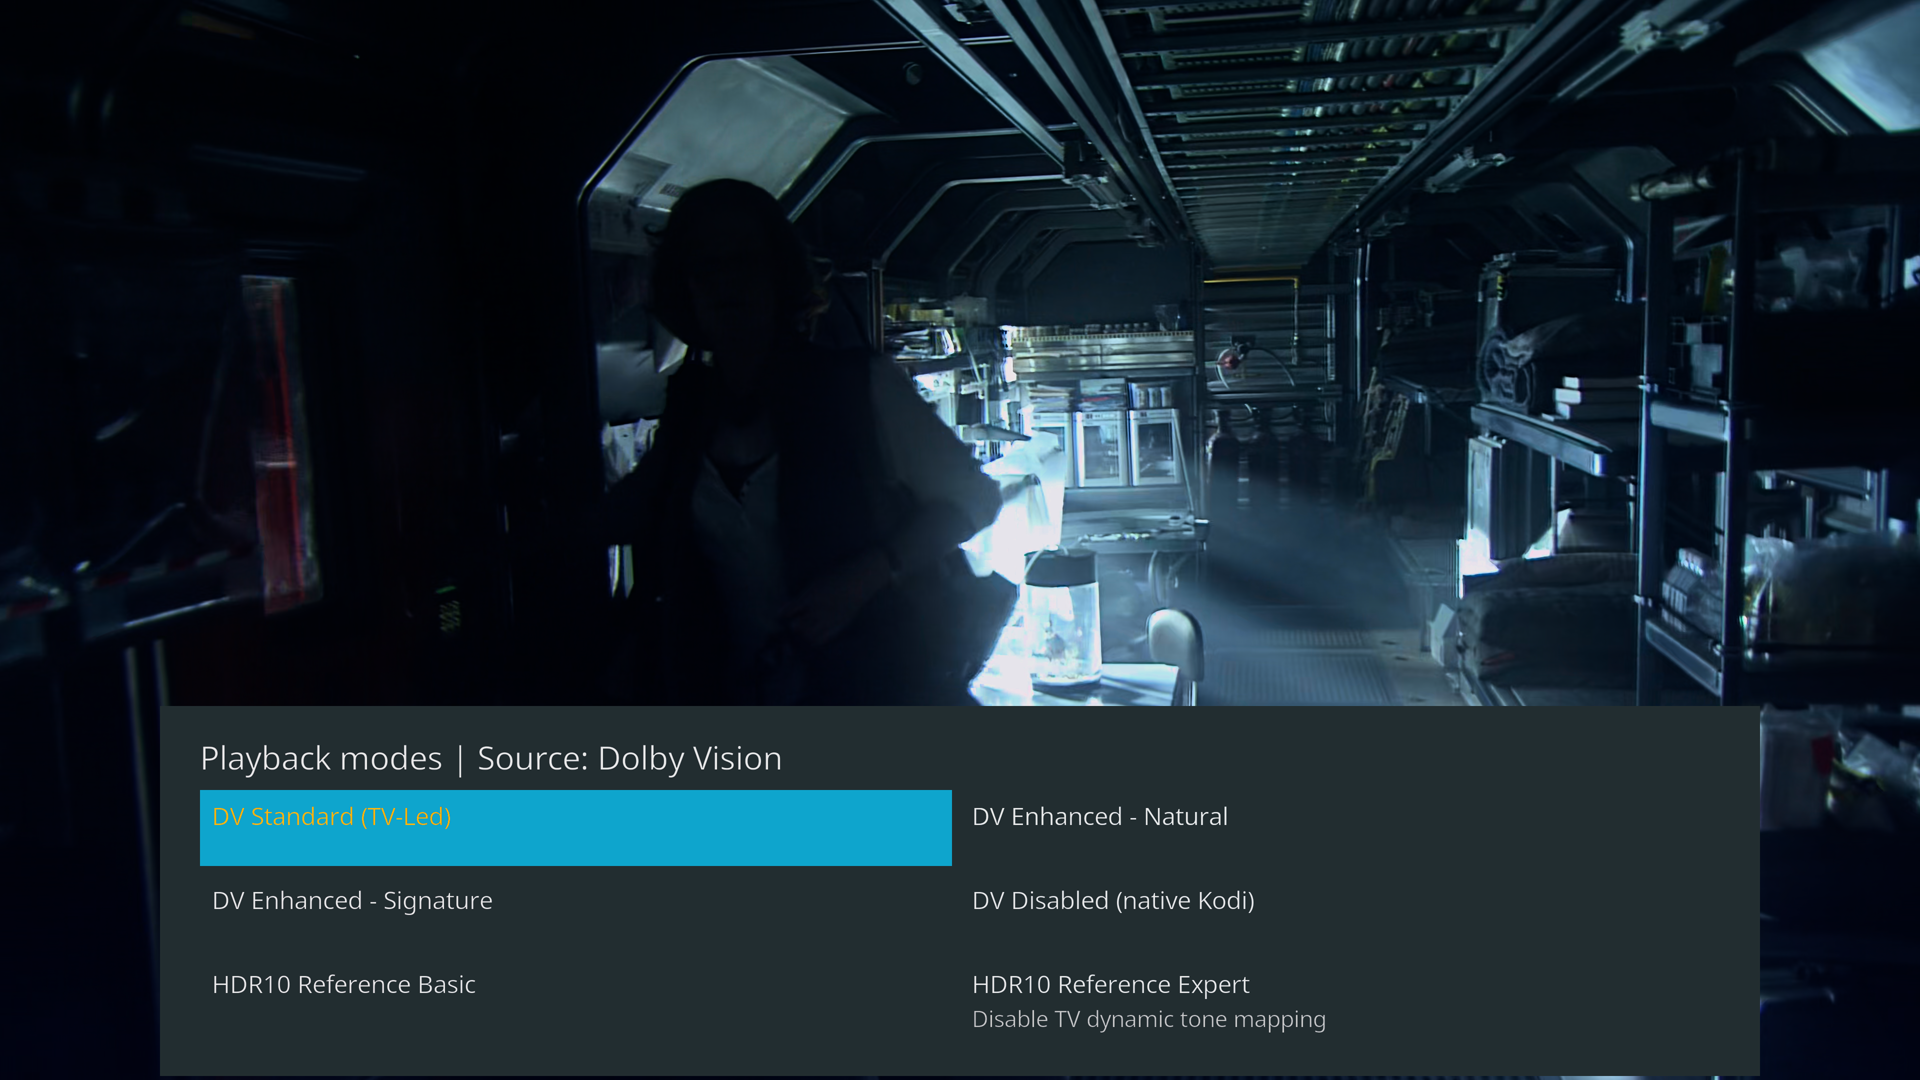
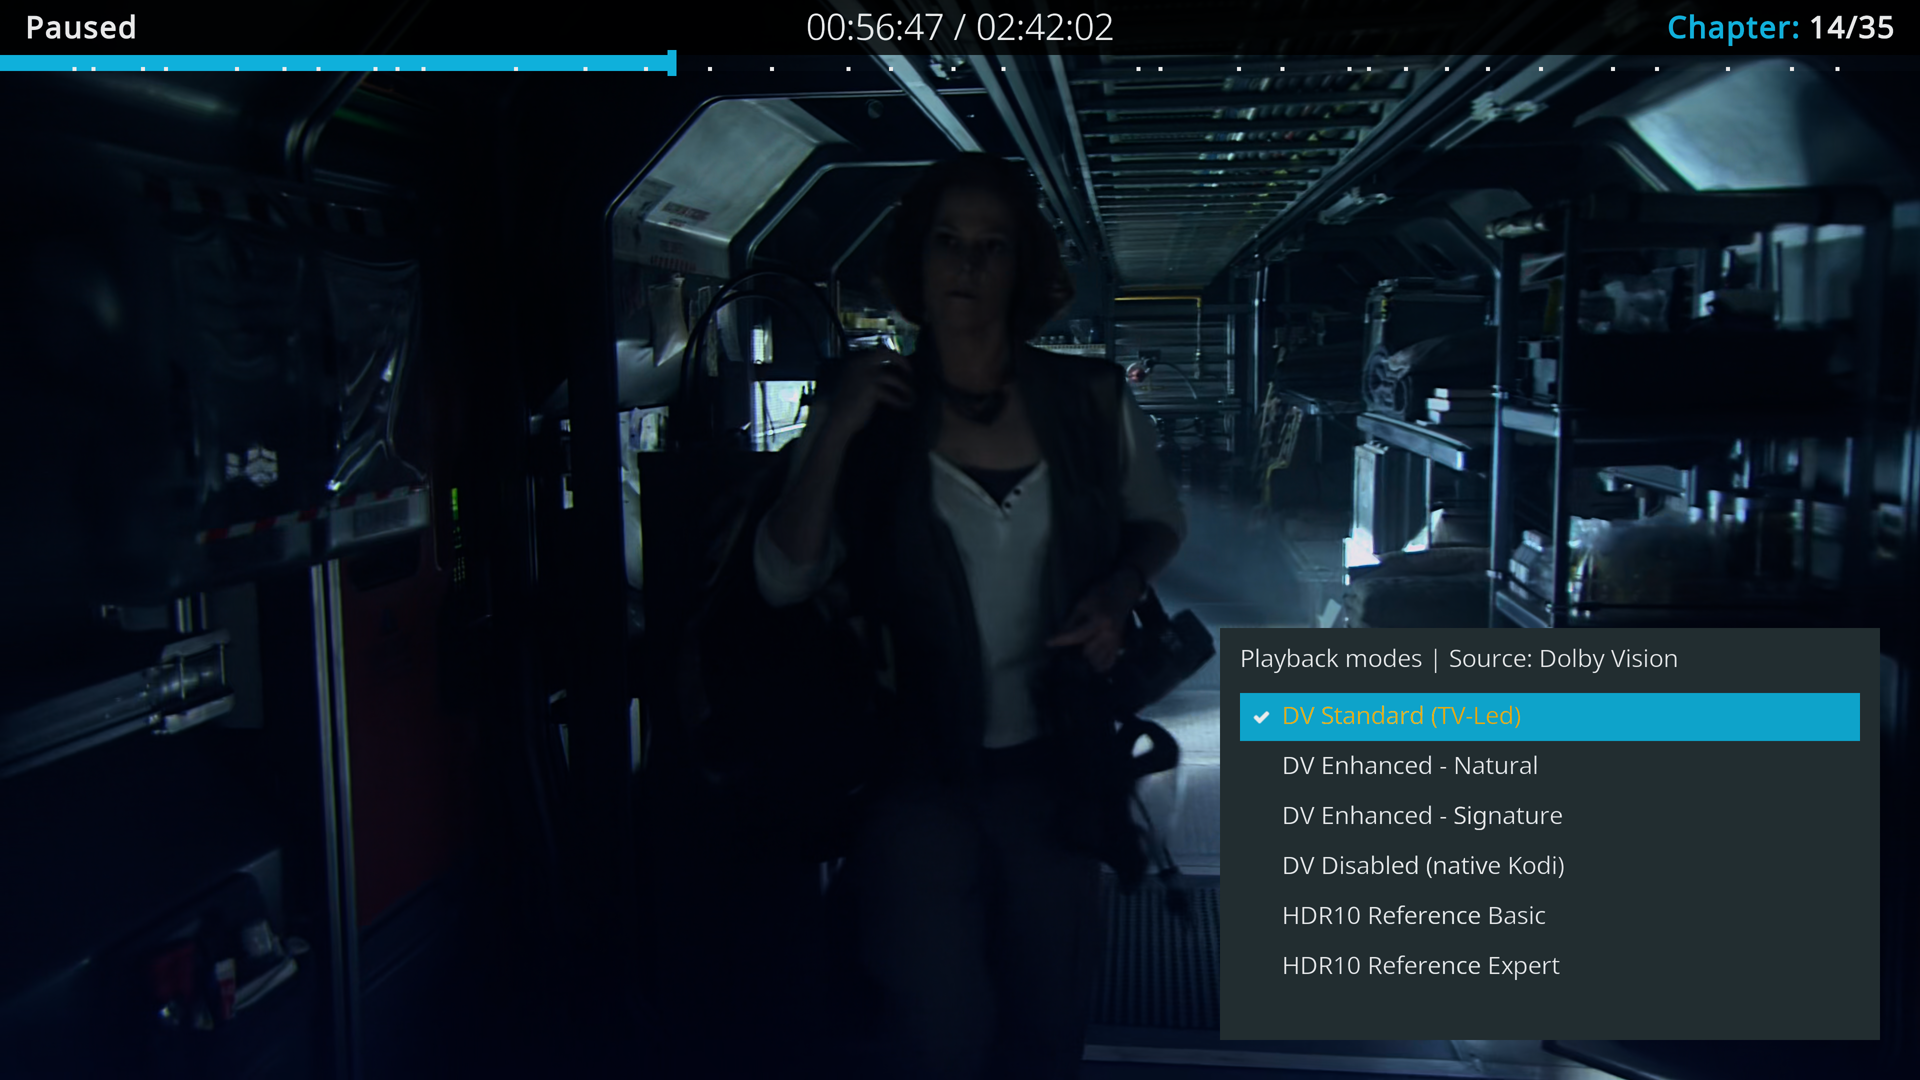
Compact native rendering selector at bottom right

diff --git a/docs/cb1/RELEASE.md b/docs/cb1/RELEASE.md
@@ -5,6 +5,7 @@
 - Dolby Vision-to-HDR10 Basic and Expert conversion, including FEL reconstruction.
 - HDR10-to-Dolby Vision AI conversion with the included LightGBM model.
 - Player information and source-aware rendering selection, available with **O**.
+- Compact bottom-right rendering selector, sized to the available modes.
 - Expanded Intel driver families and experimental AMD iGPU support.
 
 Settings: **Player > Videos**. Standard Dolby Vision is the default.
